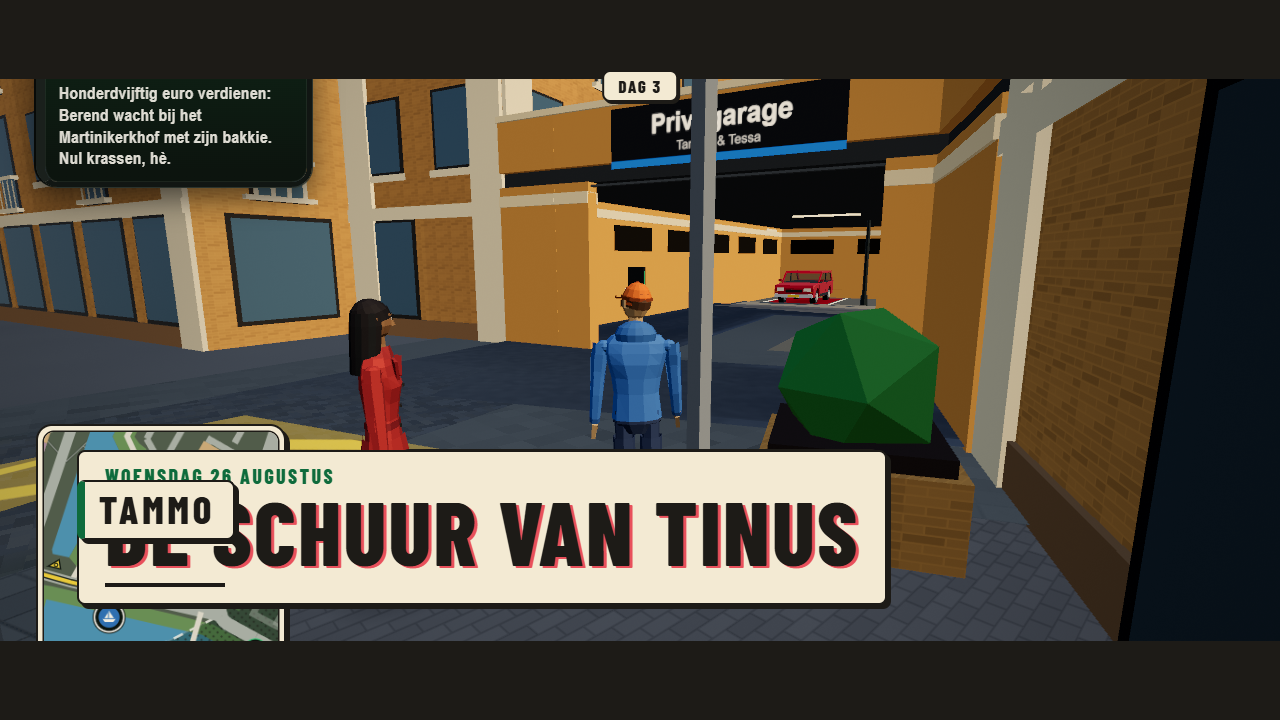
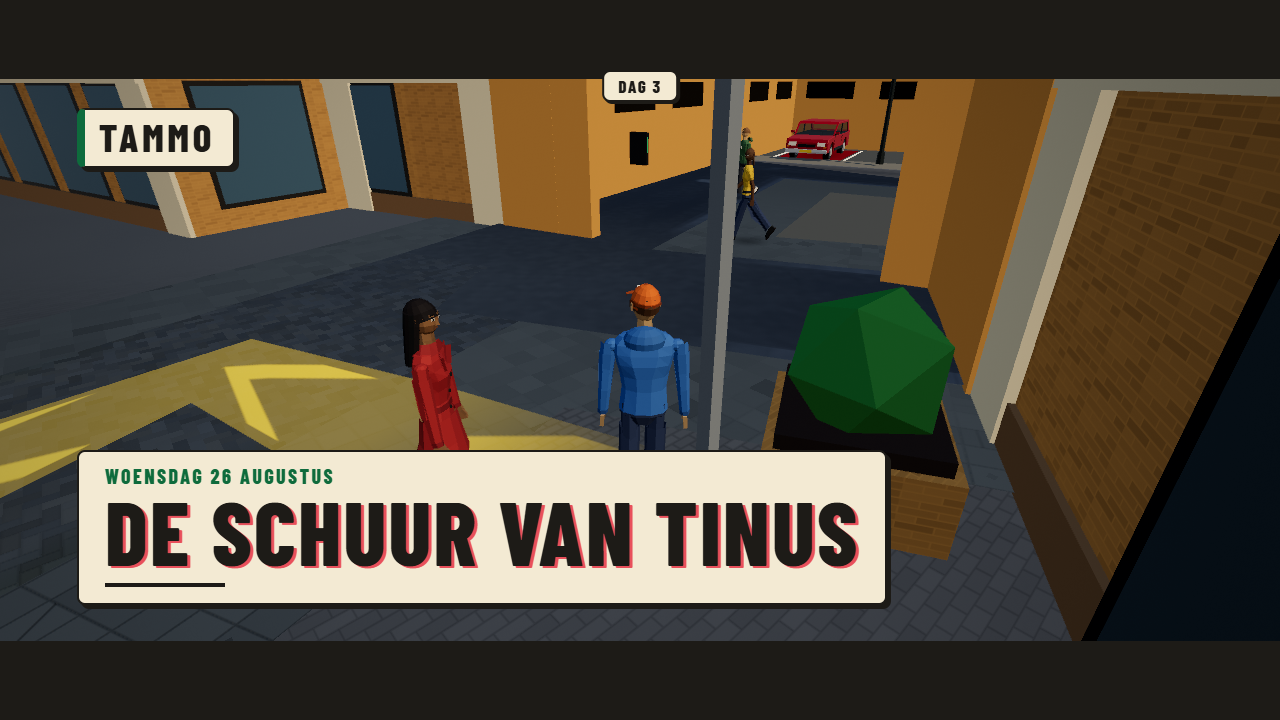
UI: toets-iconen centraal (keycap.js, Kenney-set), glyph-font vooraf geladen, één locatie bij de minimap, leesbaar minigamebord, naamchip boven de titelkaart, stopvenster met toetsen in de knoppen; test mg_bord_test, beelden voor/na (Refs #985, #1003)

diff --git a/scripts/ui/overig_scenes.js b/scripts/ui/overig_scenes.js
@@ -28,6 +28,7 @@ const want = (n) => !ONLY.length || ONLY.includes(n);
 const shot = async (name, wait = 900) => { await sleep(wait); console.log('[capture] ' + name); await sleep(700); done.push(name); };
 const probeer = async (naam, fn) => { if (!want(naam)) return; try { await fn(); } catch (e) { console.log('[scene] ' + naam + ': ' + (e && e.message)); done.push(naam + ' FOUT ' + (e && e.message)); } };
 const hud = document.getElementById('hud') || document.body;
+await document.fonts.ready;
 
 await probeer('bord', async () => {
   const K = await imp('minigamekit');
@@ -47,7 +48,9 @@ await probeer('keuze', async () => {
 });
 await probeer('stop', async () => {
   const K = await imp('minigamekit');
+  K.createBoard('discgolf').root.remove(); // zet de bordstijl (en dus het stopvenster) in de pagina, zoals in een echte minigame
   K.stopPressed({ wasPressed: (k) => k === 'escape', consume() {} });
+  done.push('stopask: ' + !!document.querySelector('.mg-stopask'));
   await shot('stopvenster');
   document.querySelectorAll('.mg-stopask').forEach((e) => e.remove());
 });
@@ -98,12 +101,45 @@ await probeer('uitje', async () => {
 });
 await probeer('cinekaart', async () => {
   const c = document.getElementById('cine');
-  c.classList.add('active', 'letterbox', 'has-card');
+  c.classList.add('active', 'letterbox', 'has-card'); document.body.classList.add('cine-hide-hud');
   c.querySelector('.cine-kicker').textContent = 'Woensdag 26 augustus'; c.querySelector('.cine-title').textContent = "De schuur van Tinus";
   const n = c.querySelector('.cine-name'); n.textContent = 'Tammo'; n.classList.add('visible');
   const sk = c.querySelector('.cine-chip'); sk.textContent = 'Dag 3'; sk.classList.add('visible');
   await shot('cinekaart', 1300);
-  c.classList.remove('active', 'letterbox', 'has-card'); n.classList.remove('visible'); sk.classList.remove('visible');
+  document.body.classList.remove('cine-hide-hud'); c.classList.remove('active', 'letterbox', 'has-card'); n.classList.remove('visible'); sk.classList.remove('visible');
+});
+await probeer('locatie', async () => { await shot('locatie-na', 300); });
+await probeer('naamkaart', async () => {
+  const N = await imp('namecard');
+  N.showNameCard('tessa', { force: true });
+  await shot('naamkaart', 3200);
+});
+await probeer('ondertitelvarianten', async () => {
+  const s = document.getElementById('banter-sub'); s.style.opacity = '1';
+  document.documentElement.classList.add('sub-box'); await shot('ondertitel-vak', 600);
+  document.documentElement.classList.remove('sub-box'); document.documentElement.classList.add('subc-hoog'); await shot('ondertitel-hoog', 600);
+  document.documentElement.classList.remove('subc-hoog'); s.style.opacity = '0';
+});
+await probeer('aanraking', async () => {
+  const t = document.getElementById('touch-ui');
+  if (!t) throw new Error('geen #touch-ui (aanraakmodus staat uit in deze run)');
+  document.documentElement.classList.add('touch-play', 'touch-device'); await shot('aanraking', 800);
+  document.documentElement.classList.remove('touch-play', 'touch-device');
+});
+await probeer('menuvoet', async () => {
+  const PM = await imp('pausemenu');
+  PM.openPauseMenu('overzicht'); await shot('menu-voetregel', 2000); PM.closePauseMenu(); await sleep(600);
+});
+await probeer('glyphmaat', async () => {
+  const KC = await imp('keycap');
+  const d = document.createElement('div'); d.id = 'glyphmaat';
+  d.style.cssText = 'position:fixed;left:40px;top:40px;z-index:99999;background:#f3ead3;color:#1d1b17;padding:10px 16px;font:16px sans-serif';
+  d.innerHTML = [24, 32, 40, 52].map((px) => '<div style="margin:4px 0"><span style="display:inline-block;width:50px">' + px + '</span><span style="font-size:' + px + 'px">' + KC.keyTextHtml('{ESC} {ENTER} {SPACE} {E} {Q} {TAB} {SHIFT}') + '</span></div>').join('') + '<div>' + KC.keyTextHtml('{WASD} {ARROWS}') + '</div>';
+  document.body.appendChild(d);
+  await shot('glyphmaat', 800);
+  const g = d.querySelector('.pad-key'); const r = g.getBoundingClientRect();
+  done.push('glyph ' + getComputedStyle(g).fontSize + ' ' + getComputedStyle(g).fontFamily + ' ' + Math.round(r.width) + 'x' + Math.round(r.height) + ' ok:' + document.fonts.check('24px "GDE Toetsen"'));
+  d.remove();
 });
 await probeer('stunt', async () => {
   const S = await imp('stunthud');

diff --git a/game/js/keycap.js b/game/js/keycap.js
@@ -3,6 +3,7 @@
 // Split out of prompts.js so hudcards.js can use it without pulling in three.js.
 import { physicalKey, tokenKey, keyName } from './controls.js';
 import { getSettings } from './settings.js';
+import { keyGlyph } from './inputglyphs.js';
 
 function esc(s) {
   return String(s).replace(/[&<>"]/g, (c) => ({ '&': '&amp;', '<': '&lt;', '>': '&gt;', '"': '&quot;' }[c]));
@@ -25,16 +26,17 @@ export function glyphHtml(token, opts = {}) {
   let inner;
   const gk = esc(token);
   if (token === 'WASD') {
-    inner = `<span class="hud-wasd" data-gk="${gk}"><span class="hud-key">${keyCap('w')}</span><span class="hud-key">${keyCap('a')}</span><span class="hud-key">${keyCap('s')}</span><span class="hud-key">${keyCap('d')}</span></span>`;
+    inner = `<span class="hud-wasd" data-gk="${gk}"><span class="hud-key is-kbg">${keyInner(physicalKey(getSettings().keyBinds, 'w'))}</span><span class="hud-key is-kbg">${keyInner(physicalKey(getSettings().keyBinds, 'a'))}</span><span class="hud-key is-kbg">${keyInner(physicalKey(getSettings().keyBinds, 's'))}</span><span class="hud-key is-kbg">${keyInner(physicalKey(getSettings().keyBinds, 'd'))}</span></span>`;
   } else if (token === 'ARROWS') {
-    inner = `<span class="hud-wasd" data-gk="${gk}"><span class="hud-key">↑</span><span class="hud-key">←</span><span class="hud-key">↓</span><span class="hud-key">→</span></span>`;
+    inner = `<span class="hud-wasd" data-gk="${gk}"><span class="hud-key is-kbg">${keyInner('arrowup')}</span><span class="hud-key is-kbg">${keyInner('arrowleft')}</span><span class="hud-key is-kbg">${keyInner('arrowdown')}</span><span class="hud-key is-kbg">${keyInner('arrowright')}</span></span>`;
   } else if (token === 'LMB' || token === 'RMB' || token === 'MOUSE' || token === 'WHEEL') {
     inner = `<span class="hud-mouse-g" data-gk="${gk}">` + MOUSE_SVG({ LMB: 'l', RMB: 'r', MOUSE: 'move', WHEEL: 'w' }[token]) + '</span>';
   } else {
     const canon = tokenKey(token);
     const phys = physicalKey(getSettings().keyBinds, canon);
+    const gi = keyGlyphInner(phys);
     const label = phys !== canon ? keyName(phys) : (KEY_LABELS[token] || token);
-    inner = `<span class="hud-key" data-gk="${gk}">` + esc(label) + '</span>';
+    inner = `<span class="hud-key${gi ? ' is-kbg' : ''}" data-gk="${gk}">` + (gi || esc(label)) + '</span>';
   }
   if (!opts.ring) return inner;
   return '<span class="hud-hold">' + inner +
@@ -44,6 +46,24 @@ export function glyphHtml(token, opts = {}) {
 function keyCap(k) {
   return esc(keyName(physicalKey(getSettings().keyBinds, k)));
 }
+
+// A keyboard key as an icon of the Kenney Input Prompts set (game/fonts/input, CC0): the glyph draws its own key
+// (arrow, Enter, Esc, space bar, letter), so the plate around it steps back (.is-kbg in a11y.css). A key without a glyph keeps its word.
+const KEY_LABEL = { ' ': 'Spatie', shift: 'Shift', control: 'Ctrl', tab: 'Tab', backspace: 'Backspace', escape: 'Esc', enter: 'Enter', arrowup: 'Pijl omhoog', arrowdown: 'Pijl omlaag', arrowleft: 'Pijl links', arrowright: 'Pijl rechts' };
+export function keyGlyphInner(phys) {
+  const k = String(phys);
+  const g = keyGlyph(k === ' ' ? 'space' : k === 'control' ? 'ctrl' : k);
+  if (!g) return null;
+  return '<span class="pad-g pad-kn pad-key" data-set="keys" role="img" aria-label="' + esc(KEY_LABEL[k] || k.toUpperCase()) + '">' + g.char + '</span>';
+}
+// A key as it is written on a hint label ('Enter', 'Esc', 'Spatie', 'Tab', 'Q', '↑'): its glyph, or null (a word like 'Muis' keeps its text).
+const LABEL_KEYS = { enter: 'enter', esc: 'escape', spatie: ' ', tab: 'tab', shift: 'shift', ctrl: 'control', backspace: 'backspace', '↑': 'arrowup', '↓': 'arrowdown', '←': 'arrowleft', '→': 'arrowright' };
+export function keyLabelGlyph(label) {
+  const l = String(label).trim();
+  const k = LABEL_KEYS[l.toLowerCase()] || (/^[A-Za-z0-9]$/.test(l) ? l.toLowerCase() : null);
+  return k ? keyGlyphInner(k) : null;
+}
+const keyInner = (phys) => keyGlyphInner(phys) || esc(keyName(phys));
 
 // Running text (already HTML-escaped) with keys as keycaps: {E}, {SPACE}, {LMB}, [E], (E), and the
 // spoken forms "druk (op) E", "houd E". New texts use {TOKEN}: it follows rebinding and the pad.

diff --git a/game/js/minigamekit.js b/game/js/minigamekit.js
@@ -208,7 +208,10 @@ body.mg-on #hud .hud-speedo, body.mg-on #hud .hud-route, body.mg-on #hud .hud-gp
 #hud .mg-board[data-sfeer] { box-shadow: var(--ds-schaduw-hard); }
 #hud .mg-board small { font-family: var(--ds-font-kop-v3); font-weight: 800; letter-spacing: 0.12em; color: var(--ds-c-ink-bord); }
 #hud .mg-board .mg-sfeer { font-family: var(--ds-font-kop-v3); font-weight: 600; color: var(--ds-c-inkt-zacht); }
-#hud .mg-board .mg-watermark { font-family: var(--ds-font-kop-v3); font-weight: 800; color: var(--ds-c-ink-inkt); opacity: 0.07; }
+#hud .mg-board .mg-watermark { top: 6px; bottom: auto; right: 10px; max-width: 36%; overflow: hidden; font: 800 30px/1 var(--ds-font-kop-v3); letter-spacing: 0.1em; color: var(--ds-c-ink-inkt); opacity: 0.08; z-index: 0; }
+#hud .mg-board > :not(.mg-watermark):not(.mg-vorm) { position: relative; z-index: 1; }
+#hud .mg-board small { flex-wrap: wrap; row-gap: 0; }
+#hud .mg-board .mg-sfeer { max-width: none; overflow: visible; text-overflow: clip; white-space: normal; }
 #hud .mg-board .mg-vorm { opacity: 0.22; }
 #hud .mg-board[data-sfeer="vaardienst"] { border-bottom: var(--ds-lijn-zeef) solid var(--ds-c-ink-inkt); }
 #hud .mg-board .mg-row { font-family: var(--ds-font-kop-v3); font-weight: 600; letter-spacing: 0.02em; }
@@ -233,6 +236,9 @@ body.mg-on #hud .hud-speedo, body.mg-on #hud .hud-route, body.mg-on #hud .hud-gp
 .mg-stopask button:active { transform: translate(var(--ds-hard-klein), var(--ds-hard-klein)); box-shadow: none; }
 .mg-stopask button:focus-visible { outline: var(--ds-focus-dikte) solid var(--ds-c-ink-inkt); outline-offset: var(--ds-focus-afstand); }
 .mg-stopask button[data-do="stop"] { background: var(--ds-c-ink-papier); color: var(--ds-c-rood-tx); border-color: var(--ds-c-rood); box-shadow: var(--ds-schaduw-hard-roze); }
+.mg-stopask button { display: inline-flex; align-items: center; gap: 8px; }
+.mg-stopask .hud-key { background: var(--ds-c-ink-inkt); color: var(--ds-c-ink-papier); border-radius: 4px; box-shadow: none; font-family: var(--ds-font-kop-v3); font-weight: 800; }
+.mg-stopask small:empty { display: none; }
 .mg-stopask small { color: var(--ds-c-inkt-zacht); font-family: var(--ds-font-tekst-v3); }
 `;
 
@@ -459,8 +465,9 @@ export function stopPressed(input) {
     el.setAttribute('aria-label', 'Stoppen?');
     // #596: het venster staat in de HUD-stijl, met echte knoppen zodat touch ook een uitweg heeft.
     el.innerHTML = '<b>Stoppen?</b><div class="mg-stopbtns" role="group" aria-label="Stoppen?">' +
-      '<button type="button" data-do="door">Doorgaan</button><button type="button" data-do="stop">Stoppen</button></div>' +
-      '<small>' + deviceText(keyTextHtml('{ESC} of {ENTER} = stoppen') + ' &middot; ' + keyTextHtml('{SPACE} = doorgaan'), 'Tik op Stoppen of Doorgaan') + '</small>';
+      '<button type="button" data-do="door"><span class="mg-bt">Doorgaan</span>' + keyTextHtml('{SPACE}') + '</button>' +
+      '<button type="button" data-do="stop"><span class="mg-bt">Stoppen</span>' + keyTextHtml('{ESC}') + '</button></div>' +
+      '<small>' + deviceText('', 'Tik op Stoppen of Doorgaan') + '</small>';
     const kies = (k) => {
       // dezelfde toetsweg als de rest van het spel: keydown + keyup via input.js
       inputMod = inputMod || import('./input.js');

diff --git a/game/js/a11y.css b/game/js/a11y.css
@@ -22,10 +22,11 @@
 .pad-dpad .pd-base { fill: var(--keycap-bg); stroke: var(--keycap-line); stroke-width: 1; }
 .pad-dpad .pd-on { fill: var(--keycap-ink); }
 /* the keycap around a controller glyph steps back */
-.hud-key.is-pad, kbd.is-pad, .hud-wasd.is-pad, .hud-mouse-g.is-pad {
+.hud-key.is-pad, kbd.is-pad, .hud-wasd.is-pad, .hud-mouse-g.is-pad, .hud-key.is-kbg, .m-kc.is-kbg {
   background: none !important; border: 0 !important; box-shadow: none !important;
   padding: 0 !important; min-width: 0 !important; width: auto !important; height: auto !important; margin: 0 2px !important;
 }
+.hud-key.is-kbg, .m-kc.is-kbg { color: inherit !important; } /* het toets-icoon tekent zijn eigen rand en leest in de tekstkleur van het vlak (inkt op papier, crème op donker) */
 .hud-wasd.is-pad { display: inline-flex !important; }
 .hud-mouse-g { display: inline-flex; align-items: center; }
 .pad-none { display: none !important; }
@@ -165,6 +166,7 @@ html.dev-pad, html.dev-pad * { cursor: none !important; }
 /* The glyph draws its own key outline: no extra plate, edge or shadow around it, so the border is not doubled and the glyph does not disappear inside it. */
 /* Controller glyphs from the glyph font (inputglyphs.js, game/fonts/input): the outline glyph on the white keycap, same size as the cap it replaces. */
 html .pad-g.pad-kn { min-width: 0; width: auto; height: auto; padding: 0; background: transparent; box-shadow: none; border: 0; color: inherit; font-size: 26px !important; line-height: 1; letter-spacing: 0; border-radius: 5px; font-weight: normal; }
+html .pad-g.pad-kn[data-set="keys"] { font-family: var(--ds-font-toetsen, 'GDE Toetsen'), 'Arial Narrow', Arial, sans-serif !important; font-size: 48px !important; line-height: 24px; height: 24px; display: inline-block; vertical-align: middle; overflow: visible; }
 html .pad-g.pad-kn[data-set="xbox"] { font-family: var(--ds-font-knoppen-a, 'GDE Knoppen A'), 'Arial Narrow', Arial, sans-serif !important; }
 html .pad-g.pad-kn[data-set="ps"] { font-family: var(--ds-font-knoppen-b, 'GDE Knoppen B'), 'Arial Narrow', Arial, sans-serif !important; }
 html .pad-g.pad-kn[data-set="deck"] { font-family: var(--ds-font-knoppen-deck, 'GDE Knoppen Deck'), 'Arial Narrow', Arial, sans-serif !important; }

diff --git a/game/js/hud_panel.css b/game/js/hud_panel.css
@@ -846,20 +846,10 @@ body.plane-flying #banter-sub, body.plane-flying #radio-sub {
 }
 #hud .hud-minimap-wrap canvas { border-radius: 10px; box-shadow: 0 0 0 1.5px var(--hud-inkt); }
 #hud .hud-minimap-wrap.wanted { box-shadow: var(--ds-schaduw-hard-roze); border-color: var(--hud-inkt); }
-#hud .hud-mm-label {
-  position: absolute; left: var(--hud-edge); bottom: max(8px, calc(var(--mm-bottom) - 38px)); max-width: var(--mm-size);
-  box-sizing: border-box; padding: 2px 12px 3px; background: var(--hud-inkt); color: var(--ds-c-ink-papier);
-  border-radius: 5px; font-size: max(17px, var(--hud-min)); line-height: 1.15; font-weight: 800; letter-spacing: 0.04em;
-  white-space: nowrap; overflow: hidden; text-overflow: ellipsis; pointer-events: none;
-}
-#hud .hud-mm-label:empty { display: none; }
-body.hide-minimap #hud .hud-mm-label { display: none; }
-#hud .hud-mm-label.nieuw { text-shadow: var(--ds-misdruk); animation: hud-misdruk-weg 0.01s 1.4s forwards; }
 
 /* Rustig drukwerk: de tokens nullen misdruk, schuinte en raster; hier nog de beweging en de lege ster als omtrek */
 html.rustig-drukwerk #hud .hud-money-delta.visible, html.rustig-drukwerk #hud .hud-mission.pop .hud-obj-text,
-html.rustig-drukwerk #hud .hud-weapon.switched .hud-weapon-icon, html.rustig-drukwerk #hud .hud-mm-label.nieuw { animation: none; text-shadow: none; filter: none; }
-html.rustig-drukwerk #hud .hud-wanted svg:not(.on) { fill: none; }
+html.rustig-drukwerk #hud .hud-weapon.switched .hud-weapon-icon, html.rustig-drukwerk html.rustig-drukwerk #hud .hud-wanted svg:not(.on) { fill: none; }
 html.rustig-drukwerk #hud .hud-wanted.changed svg.on { filter: none; }
 html.rustig-drukwerk #hud .pl-name { text-shadow: 4px 4px 0 var(--ds-c-ink-inkt); }
 @media (prefers-reduced-motion: reduce) {
@@ -952,3 +942,5 @@ body.cine-hide-hud #story-skip { display: none; }
   font-weight: 800; letter-spacing: 0.1em; color: var(--ds-c-ink-inkt); background: var(--ds-c-ink-papier);
   border: var(--ds-lijn-zeef) solid var(--ds-c-ink-inkt); border-radius: 8px; box-shadow: var(--ds-schaduw-hard-klein);
 }
+/* de naamchip staat boven de titelkaart, nooit over de titel */
+#cine.has-card .cine-name { bottom: auto; top: calc(var(--bar) + 4vh); }

diff --git a/game/fonts/fonts.css b/game/fonts/fonts.css
@@ -8,9 +8,9 @@
 @font-face { font-family: 'Big Shoulders Display'; font-weight: 800; font-display: swap; src: url(BigShouldersDisplay-ExtraBold.ttf) format('truetype'); }
 @font-face { font-family: 'Big Shoulders Display'; font-weight: 900; font-display: swap; src: url(BigShouldersDisplay-Black.ttf) format('truetype'); }
 /* Toets- en knopglyphs (Kenney Input Prompts, CC0): één teken per toets of knop, zie game/js/inputglyphs.js */
-@font-face { font-family: 'GDE Toetsen'; font-display: swap; src: url(input/input-keys.ttf) format('truetype'); }
-@font-face { font-family: 'GDE Knoppen A'; font-display: swap; src: url(input/input-xbox.ttf) format('truetype'); }
-@font-face { font-family: 'GDE Knoppen B'; font-display: swap; src: url(input/input-ps.ttf) format('truetype'); }
-@font-face { font-family: 'GDE Knoppen Deck'; font-display: swap; src: url(input/input-deck.ttf) format('truetype'); }
-@font-face { font-family: 'GDE Knoppen Algemeen'; font-display: swap; src: url(input/input-generic.ttf) format('truetype'); }
-@font-face { font-family: 'GDE Aanraking'; font-display: swap; src: url(input/input-touch.ttf) format('truetype'); }
+@font-face { font-family: 'GDE Toetsen'; font-display: block; src: url(input/input-keys.ttf) format('truetype'); }
+@font-face { font-family: 'GDE Knoppen A'; font-display: block; src: url(input/input-xbox.ttf) format('truetype'); }
+@font-face { font-family: 'GDE Knoppen B'; font-display: block; src: url(input/input-ps.ttf) format('truetype'); }
+@font-face { font-family: 'GDE Knoppen Deck'; font-display: block; src: url(input/input-deck.ttf) format('truetype'); }
+@font-face { font-family: 'GDE Knoppen Algemeen'; font-display: block; src: url(input/input-generic.ttf) format('truetype'); }
+@font-face { font-family: 'GDE Aanraking'; font-display: block; src: url(input/input-touch.ttf) format('truetype'); }

diff --git a/game/js/hud_panel.js b/game/js/hud_panel.js
@@ -244,9 +244,6 @@ export function initHud(world) {
   mmWrap.appendChild(mmCanvas);
   root.appendChild(mmWrap);
   // v3 (#993): de buurtnaam als inktlabel onder de minimap; de rasterpatroon-defs is voor de lege wantedster
-  const mmLabel = document.createElement('div');
-  mmLabel.className = 'hud-mm-label';
-  root.appendChild(mmLabel);
   const defsWrap = document.createElement('div');
   defsWrap.innerHTML = '<svg width="0" height="0" aria-hidden="true" style="position:absolute"><defs><pattern id="hud-raster" width="5" height="5" patternUnits="userSpaceOnUse"><circle cx="2.5" cy="2.5" r="0.9" style="fill: var(--ds-c-ink-inkt)"/></pattern></defs></svg>';
   root.appendChild(defsWrap.firstChild);
@@ -353,7 +350,6 @@ export function initHud(world) {
     missionDist: mission.querySelector('.hud-obj-dist'),
     locationEl: location,
     district: location.querySelector('.hud-district'),
-    mmLabel,
     street: location.querySelector('.hud-street'),
     fcol,
     cards,
@@ -926,7 +922,6 @@ function updateLocation(dt, world) {
   // plaats + wijk: a district of a town out in the province names its town
   const aname = area ? areaNameAt(h.x, h.y) : null;
   const region = aname ? (aname.near ? aname.name : aname.sub || (aname.region === 'groningen' ? 'Ommeland' : aname.name)) : 'Ommeland';
-  setText(els.mmLabel, district || (country ? (aname && aname.name) || '' : 'Grunn'));
   setText(els.district, street ? [district, country ? (district === 'Ommeland' ? '' : region) : 'Grunn'].filter(Boolean).join(' · ') : (country ? region : 'Grunn'));
 }
 

diff --git a/game/js/pausemenu.js b/game/js/pausemenu.js
@@ -5,6 +5,7 @@
 // then close. Sections: Overzicht, Te doen (todoui.js), Verhaal
 // (verhaalui.js), Kaart, Garage, Prestaties, Cheats (cheatsui.js),
 // Instellingen, Besturing.
+import { keyLabelGlyph } from './keycap.js';
 import { getSettings, setSetting, resetSettings, QUALITY_PRESETS } from './settings.js';
 import { DIFFICULTY, DIFFICULTY_MODES } from './difficulty.js';
 import { logoHtml } from './logo.js';
@@ -2465,7 +2466,8 @@ function hintHtml([keys, label, action], pad, back) {
   if (pad && keys.every((k) => k in PAD_KEYS && PAD_KEYS[k] === null)) return '';
   const caps = keys.map((k) => {
     if (pad && k in PAD_KEYS) { const slot = PAD_KEYS[k]; return slot ? pg(slot) : ''; }
-    return `<span class="m-kc">${esc(k)}</span>`;
+    const kg = k.length > 1 && /^[↑↓←→]/.test(k) ? null : keyLabelGlyph(k);
+    return kg ? `<span class="m-kc is-kbg">${kg}</span>` : `<span class="m-kc">${esc(k)}</span>`;
   }).join('');
   const text = label === BACK ? back : (pad && PAD_LABEL[label]) || label;
   return `<button type="button" class="m-hint" tabindex="-1"${action ? ` data-hint="${action}"` : ''}>${caps}<span>${esc(text)}</span></button>`;

diff --git a/game/js/glyphs.js b/game/js/glyphs.js
@@ -140,6 +140,11 @@ export function refreshGlyphs(scope = document) {
 export function initGlyphs() {
   if (started || typeof document === 'undefined') return;
   started = true;
+  // Het glyph-font laden vóór de eerste weergave en daarna elk glyph opnieuw tekenen: een toets is nooit een leeg of zwart vakje (font-display: block in fonts.css).
+  if (document.fonts && document.fonts.load) {
+    Promise.all(['GDE Toetsen', 'GDE Knoppen A', 'GDE Knoppen B', 'GDE Knoppen Deck', 'GDE Knoppen Algemeen', 'GDE Aanraking'].map((f) => document.fonts.load('24px "' + f + '"').catch(() => null)))
+      .then(() => { document.documentElement.classList.add('glyph-font-ready'); refreshGlyphs(); }).catch(() => {});
+  }
   let queued = new Set();
   let timer = 0;
   const flush = () => {

diff --git a/game/index.html b/game/index.html
@@ -9,6 +9,8 @@
 <link rel="apple-touch-icon" href="img/icons/apple-touch-icon.png">
 <link rel="manifest" href="manifest.webmanifest">
 <meta name="theme-color" content="#f3ead3">
+<link rel="preload" href="fonts/input/input-keys.ttf" as="font" type="font/ttf" crossorigin>
+<link rel="preload" href="fonts/input/input-xbox.ttf" as="font" type="font/ttf" crossorigin>
 <link rel="stylesheet" href="fonts/fonts.css">
 <link rel="stylesheet" href="js/menu.css">
 <link rel="stylesheet" href="js/ds-tokens.css">

diff --git a/CHANGELOG.md b/CHANGELOG.md
@@ -11,6 +11,7 @@ elke versie is één `## [x.y.z]`-blok met Nederlandse regels.
 
 - **Farming: elk veld een eigen toestand, en een rustiger HUD-strook (#985):** een veld laat zijn stand nu op vier plekken in dezelfde taal zien als de gebieden op de kaart, nooit alleen met kleur: elke stand (braak, stoppel, geploegd, zaailing, groeit, bijna rijp, oogstklaar) heeft een eigen pictogram, letter en lijnpatroon. Op de kaart krijgt je veld een schijf met dat pictogram, een ring die met het gewas meegroeit en een vulling die voller wordt; de kleuren volgen de gebieden: groen is klaar (oogstklaar, met een vlag), geel is bezig (het gewas groeit), dof grijs is leeg (braak, stoppel); in de wereld staat een meetlat naast de veldpaal die van een afstand laat zien hoever het gewas is; het paneel Perceel toont bij één veld één kaart (de dubbele kaart met dezelfde knop is weg). De laag Je velden in de kaartlegenda heeft nu een schakelaar (hij hoort bij Percelen, stond eerst als altijd aan). De HUD-strook tijdens het werk ligt niet meer over het doel van je missie en de straatnaamkaart, maar in de vrije band onderin tussen die kaart en de snelheidsmeter. Samen spelen: de toestand komt uit het eigen bedrijf van elke speler (#429), een gast ziet de velden van de gastheer met dezelfde markering en meetlat. Getest met pure tests (farmstatus_test) en beelden uit Electron op 1280x720; niet door een mens gespeeld.
 - **Kaart: veroverd is groen, minder detail in onbezocht gebied, en rustiger (nog niet door een mens gespeeld, #985):** een veroverd gebied heeft nu een lichtgroene vulling met een dikke rand en een vlag; aan het veroveren blijft geel. Waar je nog nooit was, zie je alleen grove vormen: geen straatnamen en geen markers, behalve jijzelf, medespelers, je doel en je waypoint, ook op de minikaart. Winkels, bijbanen en haltes hebben een icoon uit de iconenset. De kop van de kaart is één chip met icoon en getal, de voortgangsstrook één regel, en de knop Lagen heeft een eigen icoon. Samen spelen: de kaart is lokaal en per speler; er gaat niets over het netwerk.
+- **Toetsen als echte toets-iconen, één locatie bij de minimap, leesbaar minigamebord (nog niet door een mens gespeeld, #985, #1003):** een toets op het toetsenbord (pijltjes, Enter, Esc, spatiebalk, letters, Shift, Tab) is nu een icoon uit de Kenney Input Prompts-set in plaats van een woord in een doosje, in de HUD-hints, het stopvenster en de voetregel van het pauzemenu; met een controller blijft het de knop van jouw familie, en een toets zonder icoon houdt zijn naam. Het glyph-font wordt bij het opstarten geladen en toont niets (geen leeg vakje) tot het er is. Het stopvenster heeft knoppen "Doorgaan" (geel) en "Stoppen" met hun toets erin. Bij de minimap staat de buurt nog maar één keer: het donkere label eronder is weg en de kaart ernaast blijft. Op het minigamebord staat het grote watermerk zacht in de marge, de sfeernaam in de kop wordt niet meer afgekapt, en bij de filmtitelkaart staat de naamchip boven de titel terwijl de HUD verborgen is.
 - **Overal de nieuwe zeefdruk-stijl (nog niet door een mens gespeeld, #985, #980):** ook buiten de menu's staat nu papier met inkt en een harde schaduw in plaats van donker glas: het minigamebord en het stopvenster (met één gele knop), het keuzepaneel van de tekstklusjes, de ondertitels (cutscene, auto, radio en rondvaart) als papieren plaatje met de sprekernaam in bordgroen, de filmlaag met titelkaart, naam en "Houd ingedrukt om over te slaan", de knop "Sla deze missie over", de naamkaart, de treincabine, de ritoverlay van taxi en trein, de helikopter- en vliegtuiginstrumenten, de museumklus, de duivenmodus, het stuntbord, het uitjepaneel, de verhaaltelefoon, de aanraakknoppen en het hoofdmenu. Het laadscherm, de HUD, de toasts, de regelmeters en de grote momenten stonden al op het systeem. Wat bewust blijft (fades naar zwart, tekeningen, de grote filmtitel) staat in docs/UI-INVENTARIS-OUD-20-11.md.
 - **De kaart krijgt het nieuwe kleurenpalet en vier duidelijke toestanden per gebied (nog niet door een mens gespeeld, #985, #980):** de kleuren van kaart en minikaart komen uit het designsysteem (papier, inkt, bordgroen, geel en roze) en niet meer uit losse tinten. Elk gebied heeft nu een eigen uiterlijk: nog onzichtbaar (een donker vlak met een fijn puntraster en geen naam), zichtbaar maar nog niet veroverd (een stippellijn en een zachte vulling), aan het veroveren (een gele rand, een vulling die meegroeit en een voortgangsring) en veroverd (een volle vulling, een dikke rand en een vlag). Ook zonder kleur te zien: elke toestand heeft zijn eigen lijnsoort en icoon. De legenda toont alle vier, de minikaart tekent ze kleiner zonder tekst. Samen spelen: de kaart is lokaal en de veroverde voortgang is van elke speler zelf; er gaat niets over het netwerk.
 - **Alle aangeleverde muziek staat nu in het spel (nog niet beluisterd):** drie lichtvoetige tracks die nog ongebruikt waren, krijgen een eigen verhaalmoment: een kaperstrack bij Heel aankomen is ook een kunst en Wie draaide de camera's uit, een statige wandeltrack bij de trekker-limo en de vlag van d'Olle Grieze, en een branietrack bij de fatbikes en het traumaduif. Overal anders blijft de radio de standaard.

diff --git a/docs/UI-INVENTARIS-OUD-20-11.md b/docs/UI-INVENTARIS-OUD-20-11.md
@@ -51,3 +51,9 @@ Status: **omgezet en gezien** (beeld in `docs/beeld-20-11/ui/`), **omgezet, nog 
 ## Aan de andere agent (menuschermen, niet aangeraakt)
 
 `pausemenu*`, `menu.css`, `shopui.css`, `phonefeed.css` (de telefoonkaarten in de HUD, nog donker: `a11y.css` noemt dit al #998, dus telefoon), `spullen.js`, `verhaalui.js`, `kaartactieui.js`, `carrieresfeer.js` (loopbaanbanden), `coopspelersui.js`, `onlineconsent.css`, `saveslots.css`, `samenkeuze.js`, `menumelding.js`, `furniture.js` (tv-overlay).
+
+## Vervolg (20-11)
+
+- **Gezien erbij:** de ondertitelvarianten Ondertitelvak en Hoog contrast (`ondertitel-vak.png`, `ondertitel-hoog.png`), de voetregel van het pauzemenu met toets-iconen (`menu-voetregel.png`), het stopvenster met toets-iconen (`stopvenster.png`, voor: `stopvenster-voor.png`), het minigamebord met zacht watermerk (`bord-discgolf.png`, voor: `bord-discgolf-voor.png`), de filmtitelkaart met de naamchip erboven (`cinekaart.png`, voor: `cinekaart-voor.png`) en de ene locatie bij de minimap (`locatie-na.png`, voor: `locatie-voor.png`).
+- **Niet te beelden in de testrun (blijven zoals ze zijn, niet bekeken):** de naamkaart (`namecard.js`, verscheen niet), de helikopter-HUD en vluchtkaart (vragen een echte vlucht), het paneel van de aflevermissies en de dorpsuitje-minibalk (vragen hun missie), de taxirit-overlay en rit-HUD (de taxirit toonde zijn laag niet), de aanraakbesturing (de run draait zonder aanraakmodus), de bouwtekening van de museumklus, het titelscherm.
+- **Controller:** het stopvenster en de voetregel zijn alleen met toetsenbord beeld gemaakt; met een controller vervangt `glyphs.js` het icoon door de knop van de familie (niet in beeld bekeken).
